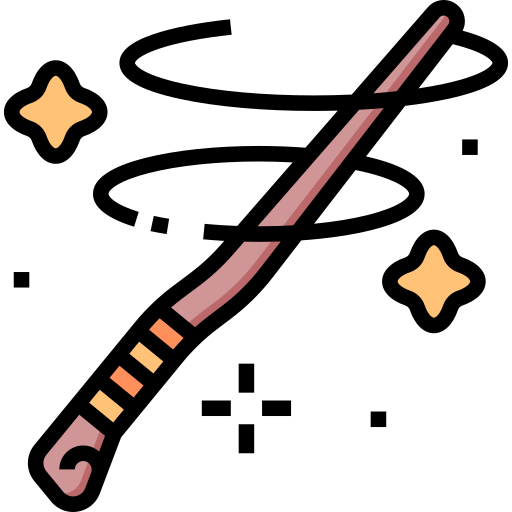
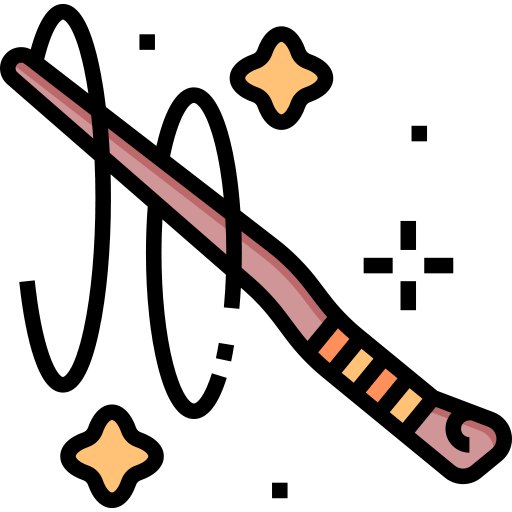
cursor y responsive

diff --git a/src/style.css b/src/style.css
@@ -1,4 +1,13 @@
 
+body{
+  cursor: url(imagenes/varita.cur),
+  auto;
+}  
+  a:hover{
+    cursor: url(imagenes/Kedavra.cur),
+  auto;
+  
+}
 .text{
     font-family: 'Harry Potter', sans-serif;
     font-weight: 400;
@@ -87,6 +96,7 @@
   margin-right: auto;
   display: flex;
   flex-wrap: wrap;
+  text-align: justify;
 }
 
 #title{
@@ -153,10 +163,21 @@ font-size: 1.4vw ;
   margin-left: auto;
   margin-right: auto;
   margin-bottom: 5px;
-  margin-top: 3%;
+  margin-top: 1%;
   text-align: center;
 }
-
+.root2::-webkit-scrollbar{     /* para el acroll*/
+  width: 10px;
+  
+}
+.root2::-webkit-scrollbar-track { 
+  background: rgba(0, 5, 8, 0.4)
+  /* border-radius: 50px; */
+}
+.root2::-webkit-scrollbar-thumb{ 
+  background: #EBA83A;
+  border-radius: 50px;
+}
 .card{
   margin-left: 0.3vh;
   margin-right: 0.3vh;
@@ -228,7 +249,6 @@ font-size: 1.4vw ;
   }
 .divFilter{
   background-color: rgb(6, 0, 0, 50%);
-  width: 100%;
   height: auto;
   padding: 1%;
   margin-bottom: 1%;
@@ -740,6 +760,8 @@ width: 140px;
   }
   .info{
   align-items: center;
+  line-height: 1.5;
+  margin-bottom: 15px;
   }   
 
   /* footer*/
@@ -779,12 +801,42 @@ width: 140px;
 }
 
 @media only screen and (max-width: 320px) {
-  .cardDiv {
-    height: 60px;
-    width: 40px;
+  .cardDiv, .cardDiv4, .cardDiv3, .cardDiv2{
+    flex-direction: column;
+    height: auto;
+    width: 200px;
+  }
+  .nameDiv{
+    font-size: 1em;
+  }
+  p{
+    font-size: 0.8em;
+    padding: 0px;
   }
   h3{
     font-size: 0.9em;
+  }
+  .avatar{
+    height: 40px;
+    width: 40px;
+  }
+  .filterLabel{
+    font-size: 0.5em;
+  }
+  .houseSelect{
+    width: 80px;
+  }
+  #titleChar,#titleSpells, #titlePot, #title, #titleBooks{
+    font-size: 1.2em;
+  }
+  .logo{
+    font-size: 1em;
+  }
+  .divFilter{
+    align-content: flex-start;
+  }
+  footer{
+    font-size: 0.8em;
   }
 }
 
@@ -796,10 +848,11 @@ width: 140px;
   .info{
     font-size: 0.6em;
   }
-  /* para el characterhtml */
-  #titleChar{
+  /* para los titulos*/
+  #titleChar,#titleSpells, #titlePot, #title, #titleBooks{
     font-size: 1.8em;
   }
+  /* para characters*/
   .filterLabel{
     font-size: 0.5em;
   }
@@ -810,8 +863,9 @@ width: 140px;
     width: 330px;
   }
   .cardDiv {
+    flex-direction: column;
     height: auto;
-    width: 200px;
+    width: 260px;
   }
   .avatar{
     height: 60px;
@@ -821,7 +875,8 @@ width: 140px;
     font-size: 1em;
   }
   p{
-    font-size: 0.5em;
+    font-size: 0.8em;
+    padding: 0px;
   }
    /* para el potionshtml */
    .cardDiv3{
@@ -912,6 +967,10 @@ width: 140px;
   footer{
     font-size: 1.3em;
   }
+  .root2{
+    width: 1000px;
+    align-items: center;
+  }
    /* para el characterhtml */
    .filterLabel{
     font-size: 1em;
@@ -934,14 +993,15 @@ width: 140px;
   }
   p{
     font-size: 1.3em;
+    line-height: 20px;
   }
    /* para el spellshtml */
    .card2{
-     width: 700px;
+     width: 900px;
    }
    .cardDiv2{
      height: auto;
-     width: 600px;
+     width: 800px;
     padding: 20px;
   }
    /* para el potionshtml */
@@ -950,9 +1010,16 @@ width: 140px;
     margin: 30px 10px;
   }
 /* para el bookshtml */
+  .card4{
+  width: 900px;
+  }
   .cardDiv4{
+    width: 800px;
     padding: 30px;
     margin: 30px 10px;
+  }
+  .descriptionDiv{
+    line-height: 25px;
   }
 }
 @media (min-width: 1450px) and (max-width: 3500px) {
@@ -970,12 +1037,16 @@ width: 140px;
   footer{
     font-size: 1.2em;
   }
+  .root2{
+    width: 1600px;
+    align-items: center;
+  }
   /* para el characterhtml */
   .filterLabel{
     font-size: 1.1em;
   }
   .card{
-    width: 2200px;
+    width: 2400px;
   }
   .cardDiv{
     height: auto;
@@ -986,14 +1057,15 @@ width: 140px;
     width: 250px;
   }
   .nameDiv{
-    font-size: 3em;
+    font-size: 2.5em;
   }
   p{
     font-size: 1.5em;
+    line-height: 25px;
   }
   /* para el spellshtml */
   .cardDiv2{
-    padding: 50px;
+    padding: 10px;
   }
    /* para el potionshtml */
    .cardDiv3{
@@ -1006,4 +1078,12 @@ width: 140px;
   .nameDiv{
     font-size: 3.8em;
   }
+}
+
+.descriptionDiv{
+  text-align: justify;
+
+}
+#titleChar,#titleSpells, #titlePot, #title, #titleBooks, .navBar, .root2, .root1, .divFilter{
+  user-select: none;
 }

diff --git a/src/main.js b/src/main.js
@@ -1,6 +1,6 @@
 import data from './data/harrypotter/harry.js';
 
-import { filterHouse, filterSpells, createCharacter, createSpell, createPotion, createBook, ordenarTexto} from './data.js';
+import { filterHouse, filterSpells, createCharacter, createSpell, createPotion, createBook} from './data.js';
 
 const alohomoraButton = document.getElementById('alohomoraB');
 if (alohomoraButton) {
@@ -40,7 +40,7 @@ if(pathName=="/src/characters.html"){
   const cardContainer = document.getElementById('cardContainer');
   cardContainer.appendChild(cardCharacters)
   filterHouseStart();
-  alphabetOrder()
+  // alphabetOrder()
 }
 if (pathName=="/src/spells.html"){
   const cardSpells= createSpell(spells);
@@ -114,9 +114,9 @@ spellsSelect.addEventListener("change", function () {
   });
 }
 
-function alphabetOrder(){
-  const alphabet = document.getElementById('alphabet')
-  alphabet.addEventListener("click", ordenarTexto(characters))}; 
+// function alphabetOrder(){
+//   const alphabet = document.getElementById('alphabet')
+//   alphabet.addEventListener("click", ordenarTexto(characters))}; 
 
     // const orderText= ordenarTexto(characters)
     // const cardContainer = document.getElementById('cardContainer');

diff --git a/src/data.js b/src/data.js
@@ -10,8 +10,6 @@ function ordenarTexto(characters) {
     return 0;
   }
  )};
- 
- console.log(characters);
 
 
 const filterHouse = (characters,house)=>{
@@ -220,5 +218,5 @@ function createBook(books){
 }
 
 
-export {filterHouse, filterSpells, createCharacter, createSpell, createPotion, createBook, ordenarTexto};
+export {filterHouse, filterSpells, createCharacter, createSpell, createPotion, createBook};
 
